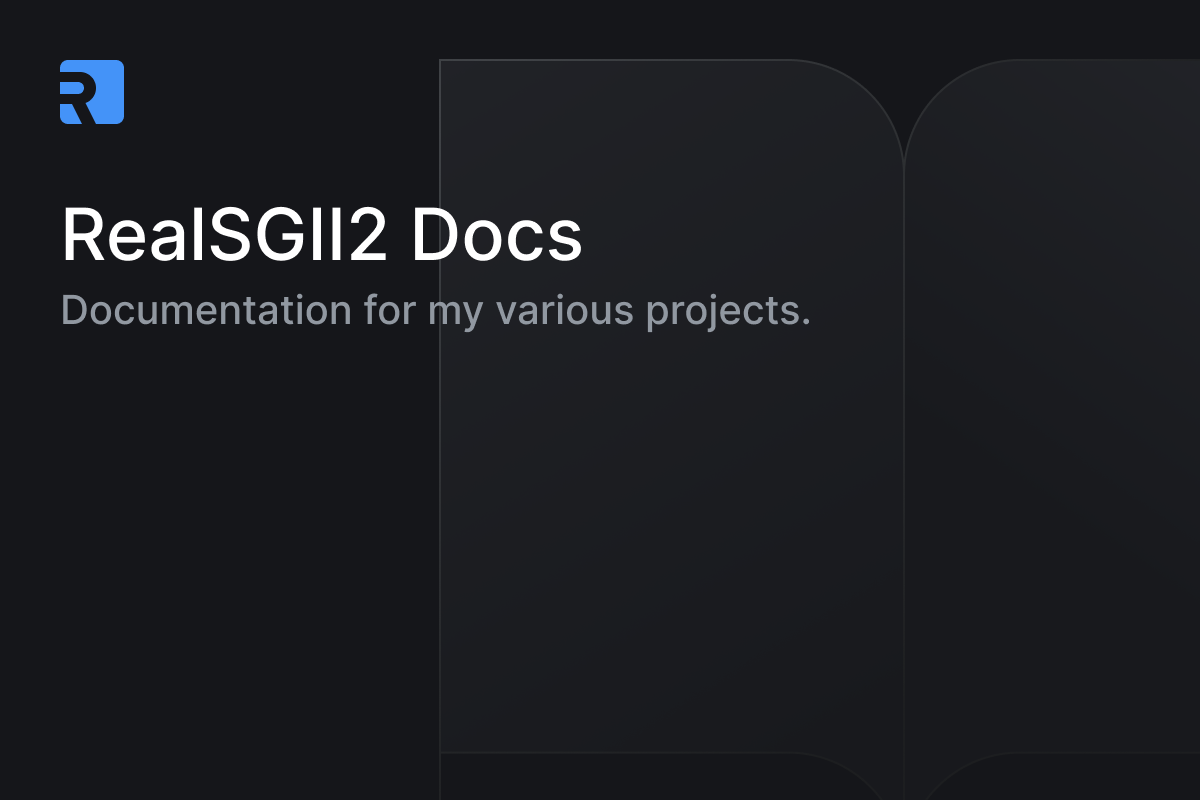
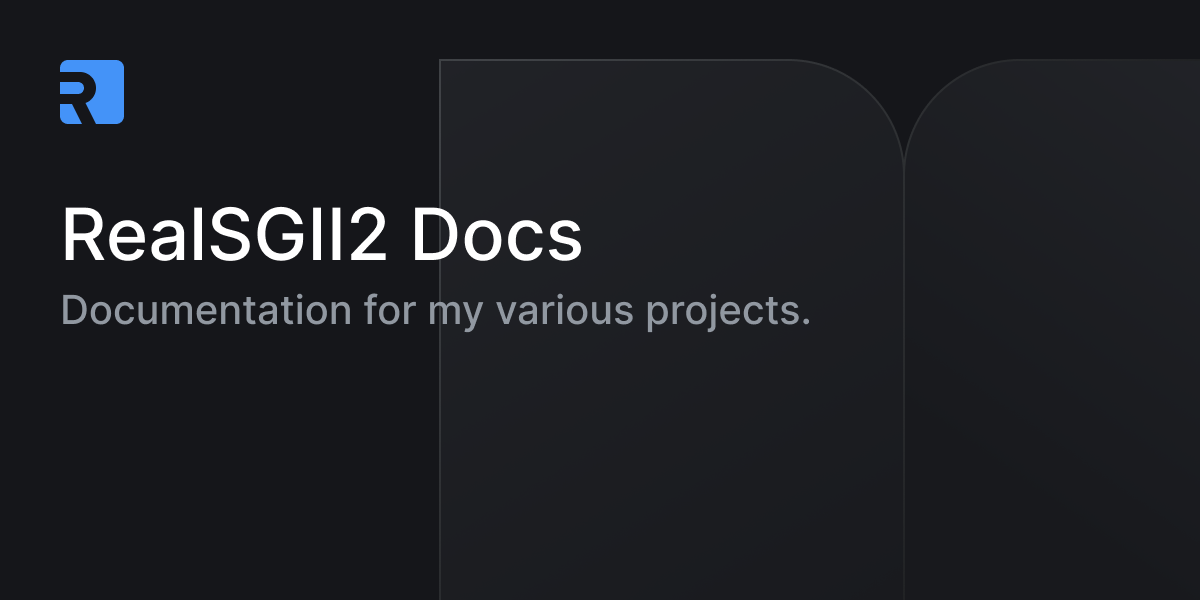
Shorten branding image and fix sitename

diff --git a/src/app/layout.tsx b/src/app/layout.tsx
@@ -21,7 +21,9 @@ export const viewport: Viewport = {
 export const metadata: Metadata = {
     title: 'Home',
     description: 'Documentation for my various projects.',
-    applicationName: 'RealSGII2 Docs',
+    openGraph: {
+        siteName: 'RealSGII2 Docs'
+    }
 };
 
 export default function RootLayout({
